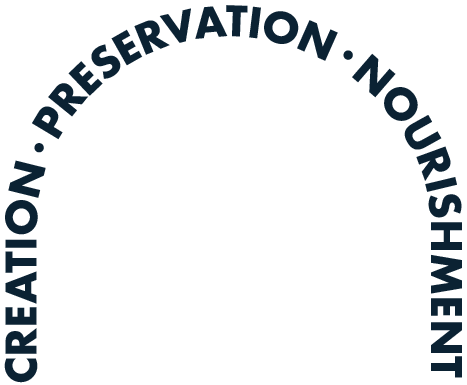
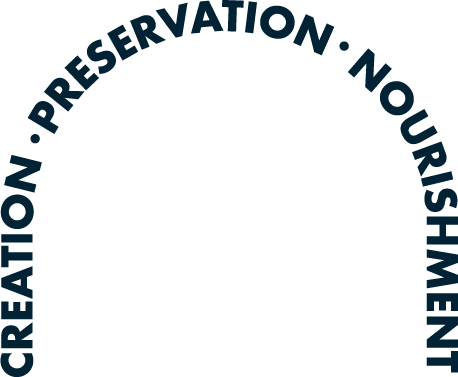
more css

Changed region(s): [[0.0, 0.0, 1.0, 1.0]]

diff --git a/index.html b/index.html
@@ -301,8 +301,9 @@ import Header from "../components/Header.astro";
             </div>
         </div>
         <div class="mountain-container">
-            <div>
-                <img src="/public/assets/img/mountainBackground.svg?raw">
+            <div style="position: relative;">
+                <img src="/public/assets/img/mountainBackground.svg?raw" style="width: 100%;" />
+                <div class="gradient-overlay"></div>
             </div>
             <div class="top-text-player" style="z-index:1">
                 <dotlottie-player src="https://lottie.host/18594928-f6d0-4720-96e2-0c53659906a5/TnkNq5ND9Z.json"
@@ -740,7 +741,71 @@ import Header from "../components/Header.astro";
                 <img src="/public/assets/img/leftPlant.svg?raw" alt="">
             </div>
         </div>
-        <img class="monkey-arch-text" src="./public/assets/img/archText.png" alt="Description of your image" />
+        <div class="arch-text-container monkey-arch-text">
+            <svg viewBox="0 0 457.31 376.87">
+                <defs>
+                    <style>
+                        .archcls-1 {
+                            fill: #002235;
+                            stroke-width: 0px;
+                        }
+                    </style>
+                </defs>
+                <path class="archcls-1"
+                    d="M11.19,353.21c-2.27,1.86-3.4,4.16-3.4,6.89,0,1.2.22,2.32.66,3.34.44,1.03,1.03,1.91,1.78,2.64.75.74,1.65,1.32,2.69,1.74,1.04.42,2.16.64,3.36.64s2.36-.21,3.4-.64c1.04-.42,1.94-1.01,2.71-1.76s1.37-1.63,1.8-2.64c.44-1.01.66-2.1.66-3.28,0-2.57-1.09-4.88-3.28-6.93h9.51l.29.82c.44,1.23.76,2.38.96,3.44.21,1.07.31,2.12.31,3.16,0,2.13-.4,4.18-1.21,6.13s-1.94,3.68-3.4,5.17c-1.46,1.49-3.2,2.69-5.21,3.59-2.01.9-4.2,1.35-6.58,1.35s-4.56-.44-6.54-1.33c-1.98-.89-3.69-2.08-5.12-3.57-1.44-1.49-2.56-3.22-3.36-5.19-.81-1.97-1.21-4.03-1.21-6.19,0-1.23.13-2.44.39-3.63.26-1.19.66-2.44,1.21-3.75h9.59Z" />
+                <path class="archcls-1"
+                    d="M31.78,322.42v10l-11.89,7.67h11.89v8.04H.86v-12.5c0-1.72.25-3.22.76-4.51.51-1.28,1.2-2.34,2.07-3.18.88-.83,1.89-1.46,3.03-1.89,1.15-.42,2.38-.64,3.69-.64,2.35,0,4.26.57,5.72,1.7,1.46,1.13,2.45,2.81,2.97,5.02l12.67-9.72ZM14.68,340.1v-1.52c0-1.58-.33-2.8-.98-3.65-.66-.85-1.6-1.27-2.83-1.27s-2.17.42-2.83,1.27c-.66.85-.98,2.06-.98,3.65v1.52h7.63Z" />
+                <path class="archcls-1" d="M7.67,301.47v9.55h5.17v-9.02h6.81v9.02h5.33v-9.55h6.81v17.59H.86v-17.59h6.81Z" />
+                <path class="archcls-1"
+                    d="M26.4,276.74v11.48l5.37,1.84v8.57l-30.91-11.77v-8.77l30.91-11.77v8.57l-5.37,1.85ZM20.29,278.87l-10.29,3.61,10.29,3.61v-7.22Z" />
+                <path class="archcls-1" d="M7.67,252.41h24.11v8.04H7.67v6.6H.86v-21.24h6.81v6.6Z" />
+                <path class="archcls-1" d="M.86,234.21h30.91v8.04H.86v-8.04Z" />
+                <path class="archcls-1"
+                    d="M15.69,228.83c-2.29-.13-4.4-.67-6.33-1.63s-3.59-2.23-4.98-3.82c-1.39-1.58-2.44-3.44-3.15-5.58-.71-2.13-1-4.46-.86-6.97.14-2.48.69-4.75,1.64-6.81.95-2.05,2.21-3.8,3.77-5.23,1.56-1.43,3.35-2.51,5.38-3.25,2.03-.73,4.19-1.04,6.48-.9,2.29.13,4.4.67,6.33,1.63s3.59,2.24,4.98,3.83,2.44,3.47,3.15,5.62c.71,2.15,1,4.46.86,6.95-.14,2.51-.69,4.79-1.64,6.83-.95,2.04-2.21,3.77-3.76,5.19-1.56,1.42-3.35,2.49-5.38,3.23-2.03.73-4.19,1.04-6.48.91ZM16.17,220.44c1.23.07,2.37-.1,3.44-.5,1.06-.4,2-.98,2.81-1.73s1.46-1.63,1.94-2.66c.48-1.03.76-2.13.82-3.3.07-1.17-.08-2.3-.45-3.37-.36-1.07-.9-2.04-1.62-2.88-.72-.85-1.58-1.53-2.59-2.06-1.01-.52-2.13-.82-3.36-.89-1.23-.07-2.37.1-3.44.5-1.06.41-2,.99-2.81,1.75-.81.76-1.46,1.66-1.94,2.68-.48,1.03-.76,2.13-.82,3.3-.07,1.17.08,2.3.45,3.37.36,1.08.91,2.03,1.62,2.86.72.84,1.58,1.51,2.59,2.04,1.01.52,2.13.82,3.36.89Z" />
+                <path class="archcls-1"
+                    d="M33.69,192.34l-30.01-7.42,1.93-7.8,21.91-9.87-18.35-4.54,1.92-7.76,30.01,7.42-1.92,7.76-21.91,9.87,18.35,4.54-1.93,7.8Z" />
+                <path class="archcls-1"
+                    d="M57.85,126.86l-4.14,6.89-26.49-15.94,6.59-10.96c1.79-2.97,3.93-4.79,6.43-5.44,2.5-.65,5.15-.13,7.96,1.56,2.81,1.69,4.51,3.79,5.11,6.3.59,2.51,0,5.25-1.79,8.23l-2.45,4.08,8.78,5.28ZM43.52,118.24l1.37-2.28c1.52-2.53,1.18-4.46-1.02-5.78-2.2-1.33-4.06-.72-5.58,1.81l-1.37,2.28,6.6,3.97Z" />
+                <path class="archcls-1"
+                    d="M83.77,91.34l-6.3,7.77-14.06-1.53,9.24,7.49-5.06,6.24-24.01-19.47,7.88-9.71c1.08-1.34,2.23-2.35,3.43-3.03,1.2-.68,2.41-1.07,3.61-1.16,1.2-.1,2.38.05,3.54.45,1.16.39,2.25,1,3.27,1.83,1.83,1.48,2.95,3.12,3.37,4.92.42,1.8.14,3.73-.85,5.77l15.96.43ZM59.36,94.3l.96-1.18c1-1.23,1.51-2.38,1.53-3.45.02-1.07-.44-1.99-1.4-2.77-.96-.77-1.96-1.04-3-.79s-2.06.98-3.06,2.21l-.96,1.18,5.92,4.8Z" />
+                <path class="archcls-1"
+                    d="M81.54,60.51l-6.92,6.59,3.56,3.74,6.53-6.22,4.7,4.93-6.53,6.22,3.68,3.86,6.92-6.59,4.69,4.93-12.74,12.13-21.32-22.38,12.73-12.13,4.7,4.93Z" />
+                <path class="archcls-1"
+                    d="M101.51,46.42c-1.13-.05-2.14.05-3.05.3-.91.25-1.69.62-2.35,1.11-.83.62-1.37,1.32-1.6,2.11s-.11,1.5.36,2.13c.33.44.73.7,1.2.79.48.09,1,.08,1.59-.03.58-.11,1.2-.29,1.85-.53.65-.25,1.31-.48,1.96-.69,2.63-.86,4.87-1.07,6.71-.62,1.85.45,3.47,1.62,4.88,3.5.95,1.27,1.59,2.58,1.93,3.93.34,1.35.37,2.7.09,4.04s-.86,2.67-1.76,3.96c-.89,1.29-2.1,2.5-3.61,3.63-3.14,2.33-6.74,3.56-10.8,3.68l-1.1-7.25c1.6.14,3.03.07,4.28-.22,1.25-.28,2.34-.77,3.26-1.45,1.05-.78,1.66-1.61,1.81-2.47.16-.87,0-1.61-.45-2.22-.28-.37-.58-.65-.92-.82-.34-.18-.74-.27-1.22-.27-.48,0-1.04.08-1.68.25-.64.17-1.4.39-2.28.67-1.03.36-2.06.67-3.1.95-1.04.28-2.06.38-3.08.32-1.02-.06-2.01-.35-2.99-.87-.98-.51-1.92-1.39-2.84-2.62-.91-1.23-1.54-2.49-1.87-3.79s-.4-2.58-.2-3.84c.21-1.26.69-2.48,1.46-3.67s1.81-2.27,3.13-3.25c1.23-.91,2.64-1.7,4.23-2.35,1.59-.65,3.25-1.11,4.96-1.36l1.17,6.94Z" />
+                <path class="archcls-1"
+                    d="M125.47,30.65l-8.31,4.72,2.55,4.49,7.84-4.46,3.36,5.92-7.84,4.46,2.63,4.63,8.31-4.72,3.36,5.92-15.29,8.69-15.27-26.88,15.29-8.69,3.36,5.92Z" />
+                <path class="archcls-1"
+                    d="M165.11,39.85l-9.26,3.78-11.59-8.12,4.49,11.01-7.44,3.03-11.67-28.63,11.58-4.72c1.59-.65,3.08-.98,4.46-1,1.38-.02,2.62.22,3.72.72,1.1.5,2.07,1.2,2.89,2.1.83.9,1.49,1.96,1.98,3.18.89,2.18,1.08,4.16.58,5.94-.5,1.78-1.67,3.33-3.53,4.65l13.78,8.07ZM142.29,30.69l1.4-.57c1.47-.6,2.47-1.36,3.01-2.29.54-.93.57-1.96.11-3.1-.46-1.14-1.21-1.85-2.25-2.14-1.03-.29-2.28-.13-3.75.46l-1.41.57,2.88,7.06Z" />
+                <path class="archcls-1"
+                    d="M163.78,8.41l11.72,16.5,2.81-20.06,8.48-2.08-5.31,33.13-6.21,1.52-19.98-26.94,8.48-2.08Z" />
+                <path class="archcls-1"
+                    d="M211.87,26.07l-11.43,1.05-1.35,5.52-8.53.78,8.9-31.86,8.74-.8,14.54,29.71-8.53.78-2.33-5.18ZM209.19,20.18l-4.53-9.92-2.65,10.58,7.19-.66Z" />
+                <path class="archcls-1" d="M236.17,7.3l-.82,24.09-8.03-.27.82-24.09-6.6-.23.23-6.8,21.23.72-.23,6.8-6.6-.23Z" />
+                <path class="archcls-1" d="M256.28,2.41l-3.75,30.68-7.98-.98,3.76-30.69,7.98.98Z" />
+                <path class="archcls-1"
+                    d="M260.2,18.02c.56-2.23,1.49-4.2,2.79-5.92,1.3-1.72,2.86-3.11,4.68-4.17s3.84-1.75,6.07-2.05c2.23-.3,4.57-.15,7,.46,2.41.6,4.54,1.57,6.38,2.89,1.84,1.32,3.32,2.88,4.43,4.68s1.84,3.76,2.18,5.89c.34,2.13.23,4.31-.33,6.53s-1.49,4.2-2.79,5.92c-1.3,1.72-2.87,3.11-4.7,4.17-1.83,1.06-3.87,1.74-6.11,2.04-2.24.3-4.57.14-6.99-.46-2.44-.61-4.57-1.57-6.4-2.89s-3.29-2.87-4.39-4.67-1.82-3.76-2.16-5.89c-.34-2.13-.23-4.31.33-6.53ZM268.36,20.06c-.3,1.19-.35,2.35-.15,3.47.2,1.12.59,2.15,1.17,3.08s1.33,1.74,2.25,2.4c.92.67,1.95,1.14,3.09,1.43,1.14.29,2.27.35,3.4.2s2.17-.51,3.14-1.05c.97-.55,1.8-1.27,2.51-2.16s1.2-1.94,1.5-3.13c.3-1.19.35-2.35.15-3.47-.2-1.12-.6-2.15-1.19-3.09-.6-.94-1.35-1.74-2.27-2.41-.92-.67-1.95-1.14-3.09-1.43-1.14-.29-2.27-.35-3.4-.19-1.12.16-2.16.51-3.12,1.06-.96.55-1.78,1.27-2.49,2.17-.7.9-1.2,1.94-1.5,3.13Z" />
+                <path class="archcls-1"
+                    d="M292.77,42.57l12.56-28.25,7.34,3.27,5.88,23.3,7.68-17.27,7.31,3.25-12.56,28.25-7.3-3.25-5.88-23.3-7.68,17.27-7.34-3.26Z" />
+                <path class="archcls-1"
+                    d="M347.47,71.93l20.23-23.38,6.08,5.26-1.15,24,12.37-14.29,6.04,5.23-20.23,23.37-6.05-5.23,1.15-24-12.37,14.29-6.08-5.26Z" />
+                <path class="archcls-1"
+                    d="M385.5,84.93c1.78-1.45,3.71-2.46,5.78-3.05,2.07-.59,4.16-.77,6.25-.53,2.09.24,4.12.91,6.09,2,1.96,1.1,3.74,2.62,5.32,4.58,1.57,1.93,2.69,3.98,3.37,6.14.68,2.16.92,4.29.73,6.4-.19,2.11-.79,4.12-1.79,6.02-1.01,1.91-2.4,3.58-4.18,5.03s-3.71,2.46-5.78,3.05c-2.07.59-4.16.76-6.26.51-2.1-.25-4.14-.93-6.11-2.04-1.97-1.11-3.74-2.63-5.31-4.56-1.58-1.95-2.71-4-3.38-6.15-.67-2.15-.91-4.27-.71-6.37.2-2.1.8-4.1,1.81-6.01,1-1.91,2.4-3.58,4.18-5.03ZM390.8,91.46c-.96.78-1.69,1.67-2.2,2.68-.51,1.02-.82,2.07-.91,3.17-.1,1.1.02,2.19.36,3.27.33,1.08.87,2.08,1.61,3,.74.91,1.61,1.64,2.6,2.19.99.55,2.04.9,3.14,1.04,1.1.14,2.2.07,3.3-.22,1.1-.29,2.13-.83,3.08-1.6.96-.78,1.69-1.67,2.2-2.69.51-1.01.81-2.08.9-3.18.09-1.11-.04-2.21-.37-3.29s-.87-2.08-1.61-3c-.74-.91-1.61-1.64-2.6-2.19-.99-.55-2.04-.89-3.13-1.03s-2.19-.05-3.29.24c-1.1.29-2.13.83-3.08,1.6Z" />
+                <path class="archcls-1"
+                    d="M427.6,116.14l-14.68,8.19c-.79.44-1.58.92-2.37,1.44-.79.52-1.44,1.11-1.94,1.79-.5.67-.78,1.45-.84,2.32-.06.88.24,1.9.89,3.07s1.36,1.95,2.13,2.35c.77.4,1.58.57,2.42.5.84-.06,1.69-.29,2.55-.69.86-.4,1.68-.82,2.47-1.26l14.68-8.19,3.9,6.98-15.65,8.73c-4.2,2.34-7.8,3.09-10.81,2.25-3-.84-5.62-3.26-7.84-7.24s-2.91-7.49-2.05-10.5c.86-3.01,3.38-5.69,7.58-8.03l15.65-8.73,3.91,7.02Z" />
+                <path class="archcls-1"
+                    d="M420.51,176.35l-3.43-9.4,8.54-11.28-11.17,4.08-2.75-7.55,29.04-10.6,4.29,11.75c.59,1.62.87,3.12.83,4.5-.03,1.38-.32,2.61-.86,3.69s-1.27,2.02-2.2,2.81c-.93.79-2.02,1.41-3.25,1.86-2.21.81-4.19.93-5.96.36-1.76-.56-3.27-1.8-4.51-3.7l-8.57,13.47ZM430.52,153.89l.52,1.43c.54,1.49,1.27,2.52,2.18,3.09.91.57,1.94.65,3.09.22,1.16-.42,1.9-1.14,2.22-2.16.33-1.02.22-2.28-.33-3.77l-.52-1.42-7.16,2.61Z" />
+                <path class="archcls-1" d="M452.51,179.21l-30.06,7.21-1.87-7.81,30.06-7.21,1.88,7.81Z" />
+                <path class="archcls-1"
+                    d="M448.69,205.56c.59-.96,1.01-1.89,1.24-2.8.23-.91.29-1.77.19-2.59-.13-1.03-.48-1.84-1.05-2.43-.57-.59-1.25-.83-2.04-.73-.54.07-.97.29-1.28.66-.31.37-.56.84-.75,1.4-.19.56-.34,1.19-.44,1.88-.11.69-.23,1.37-.36,2.05-.54,2.71-1.46,4.76-2.75,6.16-1.3,1.39-3.11,2.23-5.45,2.53-1.57.2-3.03.12-4.37-.25-1.34-.37-2.53-1-3.57-1.9-1.04-.9-1.9-2.06-2.59-3.47-.69-1.42-1.15-3.06-1.39-4.93-.49-3.88.21-7.62,2.09-11.22l6.86,2.6c-.91,1.33-1.54,2.61-1.91,3.84-.37,1.23-.48,2.42-.33,3.56.17,1.3.59,2.23,1.26,2.79.68.56,1.39.79,2.15.7.46-.06.85-.19,1.17-.4s.6-.52.83-.93c.24-.42.44-.94.6-1.59.17-.64.34-1.41.53-2.32.19-1.07.43-2.13.69-3.17.27-1.04.68-1.99,1.23-2.84.55-.85,1.29-1.58,2.22-2.18.93-.6,2.15-1,3.67-1.19s2.93-.12,4.22.23c1.3.34,2.44.92,3.44,1.71,1,.8,1.82,1.82,2.48,3.08.65,1.25,1.08,2.69,1.29,4.32.19,1.52.18,3.13-.03,4.84-.21,1.71-.63,3.37-1.25,4.99l-6.62-2.38Z" />
+                <path class="archcls-1"
+                    d="M445.38,224.66v11.6h11.93v8.04h-30.91v-8.04h12.75v-11.6h-12.75v-8.04h30.91v8.04h-11.93Z" />
+                <path class="archcls-1"
+                    d="M426.39,249.41l30.91,5.25v7.95l-16.48,6.19,16.48,6.15v7.95l-30.91,5.25v-8l17.79-2.67-17.79-7.3v-3.2l17.79-6.93-17.79-2.67v-8Z" />
+                <path class="archcls-1" d="M450.5,310.84v-9.55h-5.17v9.02h-6.81v-9.02h-5.33v9.55h-6.81v-17.59h30.91v17.59h-6.81Z" />
+                <path class="archcls-1" d="M426.39,316.61h30.91v8.04l-18.9,14.84h18.9v8h-30.91v-8l18.9-14.84h-18.9v-8.04Z" />
+                <path class="archcls-1" d="M450.5,365.67h-24.11v-8.04h24.11v-6.6h6.81v21.24h-6.81v-6.6Z" />
+            </svg>
+        </div>
         <div class="monkey-wrapper">
             <div class="monkey-img">
                 <!-- <Fragment set:html={Monkey} /> -->

diff --git a/public/assets/css/main.css b/public/assets/css/main.css
@@ -15,7 +15,7 @@
 
 /* Apply Futura font to body */
 body {
-    color: #072334;
+    color: #002235;
     font-family: "Futura", sans-serif;
     overflow-x: hidden;
     text-transform: uppercase;
@@ -24,7 +24,7 @@ body {
 }
 
 h1,h2,h3,h4,h5,h6{
-    color: #072334;
+    color: #002235;
 }
 
 .myriad-font {
@@ -443,6 +443,18 @@ h1,h2,h3,h4,h5,h6{
     margin-bottom: 18rem;
 }
 
+.gradient-overlay {
+    position: absolute;
+    /* bottom: 0; */
+    left: 0;
+    z-index: 1000;
+    top: 74%;
+    width: 100%;
+    height: 50%;
+    background-image: url(../img/gradient.svg?raw);
+    background-repeat: no-repeat;
+}
+
 .team-name__tilt-left span {
     display: inline-block;
     /* Set the display property to inline-block */
@@ -481,19 +493,19 @@ h1,h2,h3,h4,h5,h6{
 .custom-team-list li.left{
     transform: rotate(-45deg);
     position: absolute;
-    top: 49%;
+    top: 44%;
     left: -4%;
 }
 .custom-team-list li.right {
     transform: rotate(45deg);
     position: absolute;
-    top: 49%;
+    top: 44%;
     right: 3%;
 }
 .custom-team-list li.bottom {
     /* transform: rotate(-90deg); */
     position: absolute;
-    bottom:-8%;
+    bottom:-7%;
     left: 22.5%;
 }
 
@@ -584,7 +596,7 @@ h1,h2,h3,h4,h5,h6{
     font-size: 3rem;
     font-weight: bold;
     letter-spacing: 0.8rem;
-    margin-bottom: 8rem;
+    margin-bottom: 3rem;
 }
 
 .team-description {
@@ -879,9 +891,9 @@ h1.splitter {
 
 .monkey-arch-text {
     position: absolute;
-    top: 12%;
-    left: 27%;
-    width: 45%;
+    top: 15%;
+    left: 26%;
+    width: 48%;
     opacity: 0;
     transition: 
         opacity 1s ease;
@@ -890,11 +902,13 @@ h1.splitter {
     opacity: 1;
 }
 
+
+
 .bottom-left-container {
     text-align: right;
     position: absolute;
     top: 18%;
-    left: 5%;
+    left: 4.5%;
     width: 35%;
 }
 
@@ -1388,7 +1402,7 @@ h1.splitter {
             z-index: 1000;
             /* margin-top: -20%; */
             min-height: 20vh;
-            top: 96%;
+            top: 90%;
             color: white;
         }
     
@@ -1508,7 +1522,7 @@ h1.splitter {
             font-size: 3rem;
             font-weight: bold;
             letter-spacing: 0.8rem;
-            margin-bottom: 8rem;
+            margin-bottom: 3rem;
         }
     
         .team-description {
